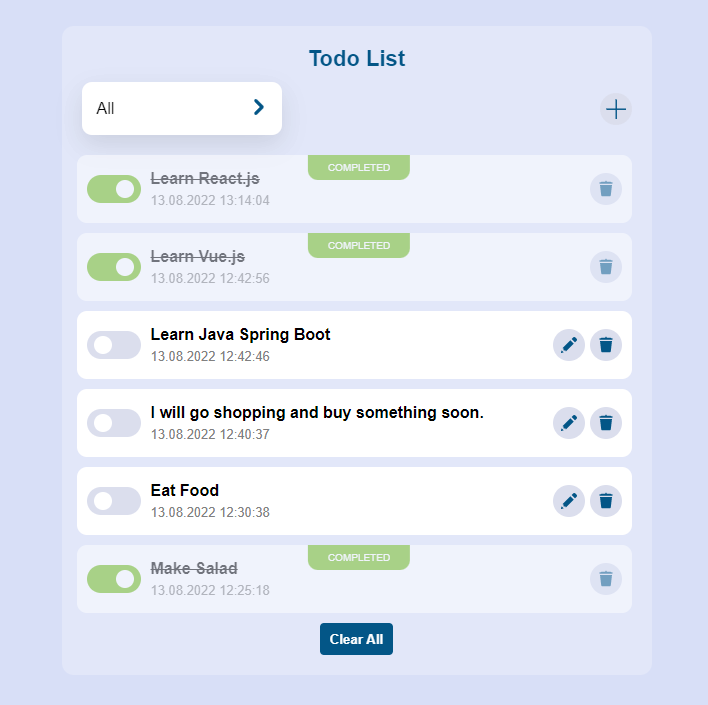
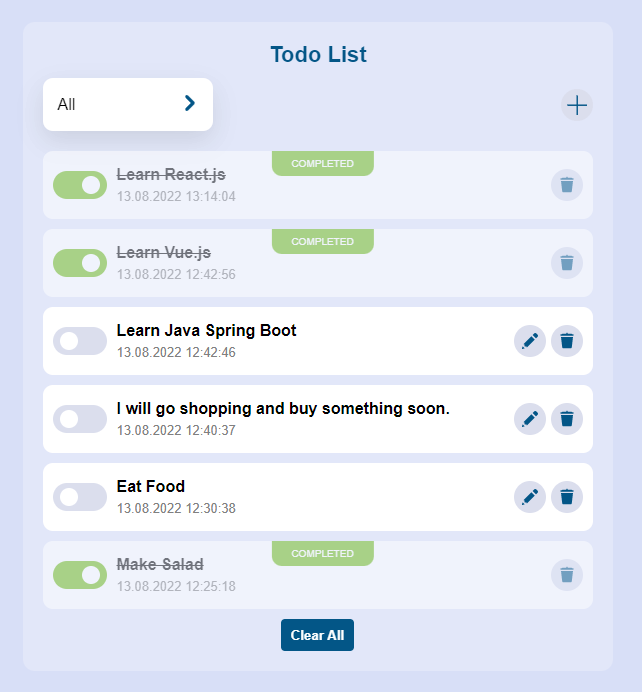
small style fixes

diff --git a/src/components/todos/Todos.tsx b/src/components/todos/Todos.tsx
@@ -40,6 +40,7 @@ export const Todos: React.FC<Props> = (props) => {
         {todos && todos.length > 0 && (
           <button
             className="btn btn-clear"
+            disabled={loading}
             onClick={() => setIsOpen(true)}
             type="button"
           >

diff --git a/src/components/common/Dropdown.tsx b/src/components/common/Dropdown.tsx
@@ -67,7 +67,7 @@ export const Dropdown: React.FC<Props> = ({
 };
 
 const Container = styled.div`
-  width: 200px;
+  width: 170px;
   border-radius: 10px;
   box-shadow: 0 10px 25px rgba(0, 0, 0, 0.1);
   background-color: white;

diff --git a/src/components/todos/Styled.tsx b/src/components/todos/Styled.tsx
@@ -12,7 +12,6 @@ const TodoContainer = styled.div`
 
 const ListWrapper = styled.div`
   overflow-y: auto;
-  margin-left: -5px;
   max-height: 500px;
   position: relative;
 
